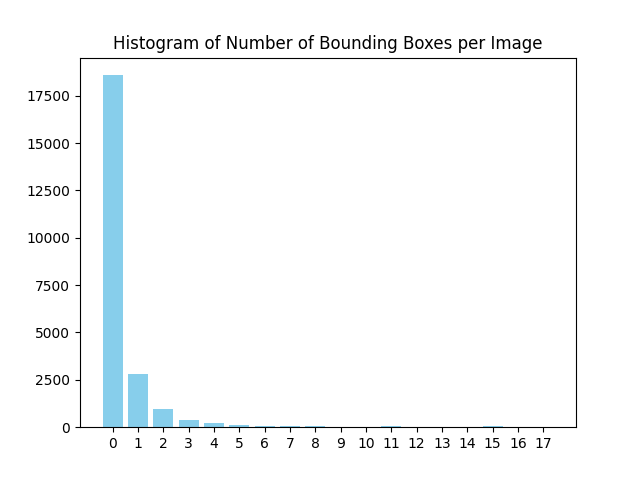
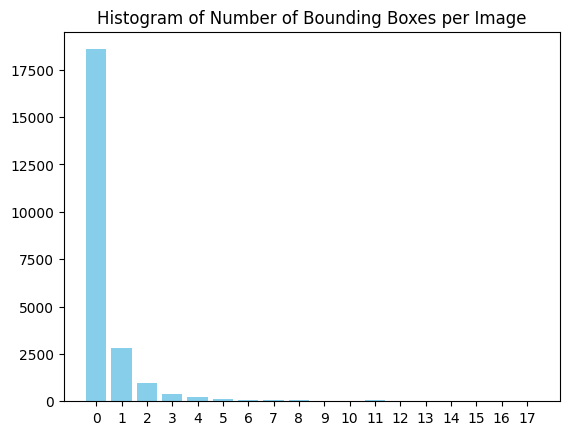
🦀 UPDATE - figures' plots 🐬

Changed region(s): [[0.0, 0.0299, 0.9262, 0.9862], [0.9561, 0.8966, 0.9859, 0.9264], [0.9561, 0.0598, 0.9859, 0.0897]]

diff --git a/source/sample_and_label_extraction.py b/source/sample_and_label_extraction.py
@@ -372,8 +372,9 @@ def inspect_bounding_boxes_statistics_on_training_n_validation_set() -> None:
         "see plot"
     )
 
-    what_it_represent = "Histogram of Number of Bounding Boxes per Image"
     plt_figure()
+
+    what_it_represent = "Histogram of Number of Bounding Boxes per Image"
     plt_hist(
         x=n_bounding_boxes_per_image_for_histogram,
         bins=maximum_n_bounding_boxes_per_image,
@@ -386,10 +387,11 @@ def inspect_bounding_boxes_statistics_on_training_n_validation_set() -> None:
         ticks=list(range(maximum_n_bounding_boxes_per_image))
     )
     plt_savefig(
-        path_join(
+        fname=path_join(
             PICTURES_DIR,
             what_it_represent + '.png'
-        )
+        ),
+        bbox_inches='tight'
     )
     plt_show(block=False)
     plt_pause(interval=1)
@@ -398,7 +400,6 @@ def inspect_bounding_boxes_statistics_on_training_n_validation_set() -> None:
     what_it_represent = (
         "Histogram of Bounding Boxes' Centers Distance [pixels]"
     )
-    plt_figure()
     plt_hist(
         x=bounding_boxes_centers_distances_for_histogram,
         bins=list(range(int(sqrt(IMAGE_N_COLUMNS**2 + IMAGE_N_ROWS**2)))),
@@ -415,10 +416,11 @@ def inspect_bounding_boxes_statistics_on_training_n_validation_set() -> None:
         rotation=90
     )
     plt_savefig(
-        path_join(
+        fname=path_join(
             PICTURES_DIR,
             what_it_represent + '.png'
-        )
+        ),
+        bbox_inches='tight'
     )
     plt_show(block=False)
     plt_pause(interval=1)
@@ -427,7 +429,6 @@ def inspect_bounding_boxes_statistics_on_training_n_validation_set() -> None:
     what_it_represent = (
         "Histogram of Bounding Boxes' Centers X-Coordinate Distance [pixels]"
     )
-    plt_figure()
     plt_hist(
         x=bounding_boxes_centers_x_coord_distances_for_histogram,
         bins=list(range(IMAGE_N_COLUMNS)),
@@ -437,12 +438,12 @@ def inspect_bounding_boxes_statistics_on_training_n_validation_set() -> None:
     )
     plt_title(label=what_it_represent)
     plt_savefig(
-        path_join(
+        fname=path_join(
             PICTURES_DIR,
             what_it_represent + '.png'
-        )
+        ),
+        bbox_inches='tight'
     )
-    plt_figure()
     plt_show(block=False)
     plt_pause(interval=1)
     plt_clf()
@@ -459,10 +460,11 @@ def inspect_bounding_boxes_statistics_on_training_n_validation_set() -> None:
     )
     plt_title(label=what_it_represent)
     plt_savefig(
-        path_join(
+        fname=path_join(
             PICTURES_DIR,
             what_it_represent + '.png'
-        )
+        ),
+        bbox_inches='tight'
     )
     plt_show(block=False)
     plt_pause(interval=1)
